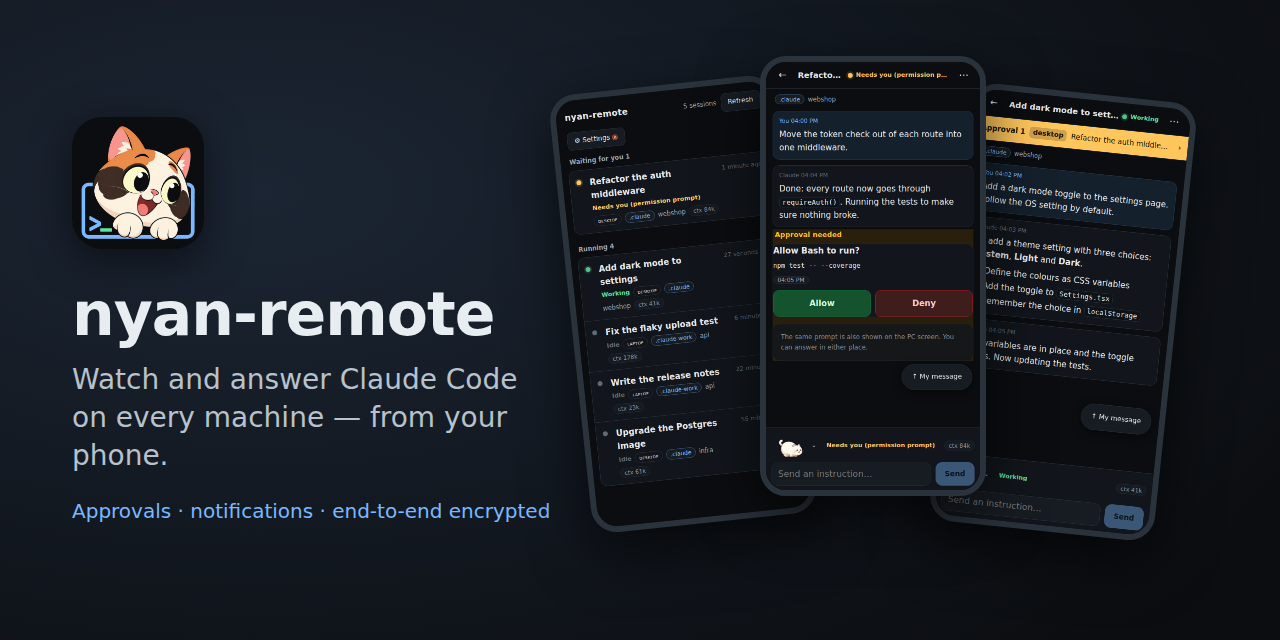
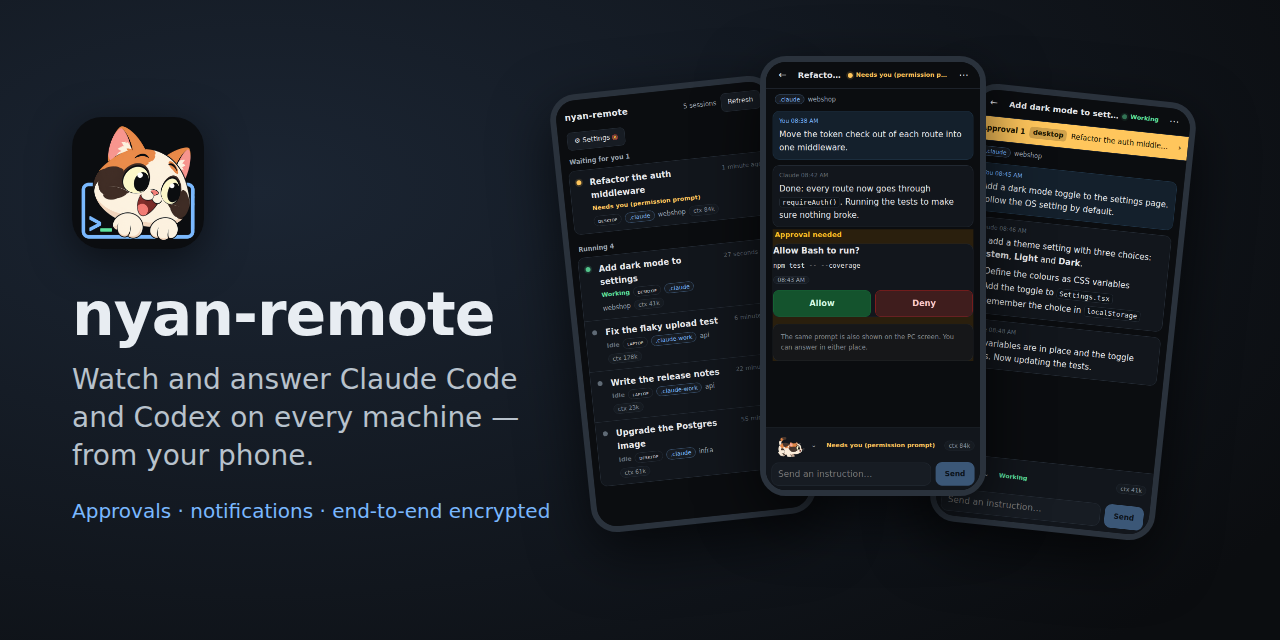
Release 2026-11-15 (2e424fe)

diff --git a/landing/public/index.html b/landing/public/index.html
@@ -1,16 +1,16 @@
 <!doctype html>
 <html lang="en"><head><meta charset="utf-8"><meta name="viewport" content="width=device-width,initial-scale=1">
-<title>nyan-remote — Claude Code on your phone</title>
-<meta name="description" content="Your Claude Code sessions on every machine and every account, on your phone — keep starting claude as usual.">
+<title>nyan-remote — Claude Code and Codex on your phone</title>
+<meta name="description" content="Your Claude Code and Codex sessions on every machine and every account, on your phone — keep starting claude and codex as usual.">
 <meta property="og:type" content="website">
 <meta property="og:site_name" content="nyan-remote">
 <meta property="og:url" content="https://nyan-remote.app/">
-<meta property="og:title" content="nyan-remote — Claude Code on your phone">
-<meta property="og:description" content="Your Claude Code sessions on every machine and every account, on your phone — keep starting claude as usual.">
+<meta property="og:title" content="nyan-remote — Claude Code and Codex on your phone">
+<meta property="og:description" content="Your Claude Code and Codex sessions on every machine and every account, on your phone — keep starting claude and codex as usual.">
 <meta property="og:image" content="https://nyan-remote.app/og.png">
 <meta property="og:image:width" content="1280">
 <meta property="og:image:height" content="640">
-<meta property="og:image:alt" content="nyan-remote — Claude Code sessions on your phone">
+<meta property="og:image:alt" content="nyan-remote — Claude Code and Codex sessions on your phone">
 <meta property="og:locale" content="en_US">
 <meta name="twitter:card" content="summary_large_image">
 <link rel="icon" href="/favicon.png"><link rel="stylesheet" href="/style.css">
@@ -18,8 +18,8 @@
 <header class="top"><a href="/"><img src="/icon.png" alt=""></a><a class="grow" href="/"><strong>nyan-remote</strong></a><a class="navlink" href="https://github.com/vessel-ltd/nyan-remote">GitHub</a><a class="btn ghost" href="https://account.nyan-remote.app">Account</a></header>
 <main><section class="hero">
 <div class="text">
-<h1>Keep running claude.<br>Use it from your phone.</h1>
-<p class="lead">The sessions you already started, from every account and every machine, in one place.</p>
+<h1>Keep running claude and codex.<br>Use them from your phone.</h1>
+<p class="lead">The Claude Code and Codex sessions you already started, from every account and every machine, in one place.</p>
 <p class="chips"><span>No tmux</span><span>No SSH</span><span>No relaunching</span></p>
 <p><a class="btn" href="#install">Get started</a> <a class="btn ghost" href="#pricing">Pricing</a></p>
 <p class="small dim">Free to start · <a href="https://github.com/vessel-ltd/nyan-remote">Open source (MIT)</a> · End-to-end encrypted</p>
@@ -30,7 +30,7 @@
 <h2>How it works</h2>
 <ol class="steps">
 <li><strong>Install on your PC</strong><span>One command. WSL, macOS or Linux.</span></li>
-<li><strong>Use <code>claude</code> as usual</strong><span>Same command, same accounts, nothing to relaunch.</span></li>
+<li><strong>Use <code>claude</code> and <code>codex</code> as usual</strong><span>Same command, same accounts, nothing to relaunch.</span></li>
 <li><strong>Open your phone</strong><span>Open a link and add it to your home screen, no app store. The sessions you start are all there, ready for you to answer and reply.</span></li>
 </ol>
 
@@ -50,11 +50,21 @@
 <li><strong>Approvals and questions</strong> Allow, deny, or pick an answer right there.</li>
 <li><strong>Reply and stop</strong> Type into a running session, or stop it.</li>
 <li><strong>Auto-approve, on your terms</strong> One session, for 3 or 24 hours. Always visible, one tap to turn off.</li>
+<li><strong>Codex <span class="badge">Experimental</span></strong> Codex sessions in the same list: state, conversation, notifications, command approvals, sending and stopping. <a href="#codex">What it changes on your PC</a>.</li>
 <li><strong>No app store</strong> A web app you add to your home screen.</li>
 <li><strong>A cat</strong> Pick one of seven. It runs while Claude is working.</li>
 </ul>
 </div>
 </div>
+
+<h2 id="codex">Codex <span class="badge">Experimental</span></h2>
+<p>OpenAI Codex CLI sessions show up in the same list. This is <strong>on by default</strong> on every PC where Codex runs (nothing happens on a PC without Codex). Here is what it changes on your PC:</p>
+<ol>
+<li><strong>Your Codex requests carry the name <code>nyan-remote</code>.</strong> The agent connects to the Codex background server (its daemon) and says who it is; Codex puts that name at the end of the User-Agent it sends to OpenAI, on your own account.</li>
+<li><strong>If the agent connects first, some Codex features can be lost until the daemon restarts.</strong> When a daemon has just started and the agent talks to it before your <code>codex</code> does, the MCP dependencies that skills rely on are not handled. The agent waits a few seconds first, which makes this unlikely but cannot rule it out.</li>
+<li><strong>Codex calls its daemon experimental.</strong> Built and measured against codex-cli 0.169.0 on Linux; a Codex update can break this until we catch up.</li>
+</ol>
+<p>To turn it off, put <code>"codex": { "enabled": false }</code> in <code>~/.nyan-remote/config.json</code> and restart the agent. <code>nyan status</code> shows whether it is on. Details are in the <a href="https://github.com/vessel-ltd/nyan-remote#codex-sessions-experimental">README</a>.</p>
 
 <h2 id="install">Get started</h2>
 <p>On your PC (WSL / macOS / Linux, Node 24):</p>
@@ -73,16 +83,15 @@
 <p class="dim">Prices are in US dollars and include tax. Cancel anytime; you will not be charged from the next renewal.</p>
 <h2 id="soon">Roadmap</h2>
 <ul class="roadmap">
-<li><strong>Codex</strong> OpenAI Codex sessions in the same view.</li>
+<li><strong>Codex, more of it</strong> Closed Codex sessions as history, and the other kinds of Codex approval (file changes, network access, questions).</li>
 <li><strong>Phone apps</strong> Native apps for iPhone and Android.</li>
 <li><strong>Desktop</strong> A desktop layout, installable on Windows, macOS and Linux.</li>
 <li><strong>Windows without WSL</strong> Run the agent on Windows directly.</li>
 <li><strong>Homebrew</strong> Install and update with Homebrew on macOS.</li>
 <li><strong>Voice</strong> Talk to a session and hear its replies read aloud, hands-free.</li>
 <li><strong>Images and files</strong> Send images and files from your phone to a session: screenshots, photos, logs.</li>
-<li><strong>Images and files</strong> Send images and files from your phone to a session: screenshots, photos, logs.</li>
 </ul>
-<p class="dim">nyan-remote is not an official Anthropic product. Claude and Claude Code are trademarks of Anthropic.</p></main>
+<p class="dim">nyan-remote is not an official product of Anthropic or OpenAI. Claude and Claude Code are trademarks of Anthropic. OpenAI and Codex are trademarks of OpenAI.</p></main>
 <footer>
 <a href="/legal/terms/">Terms</a> ·
 <a href="/legal/privacy/">Privacy</a> ·

diff --git a/landing/public/legal/privacy/index.html b/landing/public/legal/privacy/index.html
@@ -1,16 +1,16 @@
 <!doctype html>
 <html lang="en"><head><meta charset="utf-8"><meta name="viewport" content="width=device-width,initial-scale=1">
 <title>Privacy Policy — nyan-remote</title>
-<meta name="description" content="Your Claude Code sessions on every machine and every account, on your phone — keep starting claude as usual.">
+<meta name="description" content="Your Claude Code and Codex sessions on every machine and every account, on your phone — keep starting claude and codex as usual.">
 <meta property="og:type" content="website">
 <meta property="og:site_name" content="nyan-remote">
 <meta property="og:url" content="https://nyan-remote.app/legal/privacy/">
 <meta property="og:title" content="Privacy Policy — nyan-remote">
-<meta property="og:description" content="Your Claude Code sessions on every machine and every account, on your phone — keep starting claude as usual.">
+<meta property="og:description" content="Your Claude Code and Codex sessions on every machine and every account, on your phone — keep starting claude and codex as usual.">
 <meta property="og:image" content="https://nyan-remote.app/og.png">
 <meta property="og:image:width" content="1280">
 <meta property="og:image:height" content="640">
-<meta property="og:image:alt" content="nyan-remote — Claude Code sessions on your phone">
+<meta property="og:image:alt" content="nyan-remote — Claude Code and Codex sessions on your phone">
 <meta property="og:locale" content="en_US">
 <meta name="twitter:card" content="summary_large_image">
 <link rel="icon" href="/favicon.png"><link rel="stylesheet" href="/style.css">
@@ -18,13 +18,13 @@
 <header class="top"><a href="/"><img src="/icon.png" alt=""></a><a class="grow" href="/"><strong>nyan-remote</strong></a><a class="navlink" href="https://github.com/vessel-ltd/nyan-remote">GitHub</a><a class="btn ghost" href="https://account.nyan-remote.app">Account</a></header>
 <main><h1>Privacy Policy</h1>
 <p>This policy explains how Vessel Ltd. ("we") handles information in the nyan-remote hosted services.</p>
-<h2>1. What we do not handle</h2><p>Your Claude Code conversations, prompts, code and file contents are end-to-end encrypted between your phone and PC. They pass through our relay but we cannot read them, and we do not store them.</p>
+<h2>1. What we do not handle</h2><p>Your Claude Code and Codex conversations, prompts, code and file contents are end-to-end encrypted between your phone and PC. They pass through our relay but we cannot read them, and we do not store them.</p><p>The agent on your PC connects to the Codex background server on that PC. Nothing from that connection reaches us. (That your Codex requests to OpenAI carry the name <code>nyan-remote</code> is explained on the <a href="/#codex">home page</a>.)</p>
 <h2>2. Information we handle</h2>
 <ul><li>Your GitHub account id and username (for sign-in). GitHub tokens are used once for verification and not stored. We do not receive your password</li><li>Names, public keys and last-used times of your registered machines (to manage limits). Machine credentials are stored only as hashes</li><li>Your Stripe customer id and subscription status (for billing). Card details are handled by Stripe; we do not receive them. Payment notifications from Stripe may include details you entered at checkout, such as your email address; we do not store them</li><li>Relay connection metadata (times, traffic volume, IP addresses and similar; for troubleshooting and abuse prevention; kept briefly in Cloudflare logs)</li></ul>
 <h2>3. Third parties</h2><p>The Service uses Cloudflare (infrastructure), Stripe (payments) and GitHub (sign-in). Except as required by law, we do not share your information with other third parties. We use no third-party advertising or analytics scripts.</p>
 <h2>4. Deletion</h2><p>Removing a machine with <code>nyan logout</code> or on the account page deletes its information (including the credential hash). Machines unused for 90 days are also deleted automatically. The relay’s machine count forgets a machine when you remove it or after 30 days unused. To delete your whole account, please contact us.</p>
 <h2>5. Contact</h2><p>Vessel Ltd. — use the contact form on your <a href="https://account.nyan-remote.app/#support">account page</a>.</p>
-<p class="dim">Last updated: 2026-09-25</p></main>
+<p class="dim">Last updated: 2026-11-15</p></main>
 <footer>
 <a href="/legal/terms/">Terms</a> ·
 <a href="/legal/privacy/">Privacy</a> ·

diff --git a/landing/public/ja/legal/law/index.html b/landing/public/ja/legal/law/index.html
@@ -1,16 +1,16 @@
 <!doctype html>
 <html lang="ja"><head><meta charset="utf-8"><meta name="viewport" content="width=device-width,initial-scale=1">
 <title>特定商取引法に基づく表記 — nyan-remote</title>
-<meta name="description" content="いつもの claude のまま、全部のマシンと全部のアカウントの Claude Code を、ねこと一緒にスマホで。">
+<meta name="description" content="いつもの claude と codex のまま、全部のマシンと全部のアカウントのセッションを、ねこと一緒にスマホで。">
 <meta property="og:type" content="website">
 <meta property="og:site_name" content="nyan-remote">
 <meta property="og:url" content="https://nyan-remote.app/ja/legal/law/">
 <meta property="og:title" content="特定商取引法に基づく表記 — nyan-remote">
-<meta property="og:description" content="いつもの claude のまま、全部のマシンと全部のアカウントの Claude Code を、ねこと一緒にスマホで。">
+<meta property="og:description" content="いつもの claude と codex のまま、全部のマシンと全部のアカウントのセッションを、ねこと一緒にスマホで。">
 <meta property="og:image" content="https://nyan-remote.app/og.png">
 <meta property="og:image:width" content="1280">
 <meta property="og:image:height" content="640">
-<meta property="og:image:alt" content="nyan-remote — Claude Code sessions on your phone">
+<meta property="og:image:alt" content="nyan-remote — Claude Code and Codex sessions on your phone">
 <meta property="og:locale" content="ja_JP">
 <meta name="twitter:card" content="summary_large_image">
 <link rel="icon" href="/favicon.png"><link rel="stylesheet" href="/style.css">

diff --git a/landing/public/legal/law/index.html b/landing/public/legal/law/index.html
@@ -1,16 +1,16 @@
 <!doctype html>
 <html lang="en"><head><meta charset="utf-8"><meta name="viewport" content="width=device-width,initial-scale=1">
 <title>Legal notice (Specified Commercial Transactions Act) — nyan-remote</title>
-<meta name="description" content="Your Claude Code sessions on every machine and every account, on your phone — keep starting claude as usual.">
+<meta name="description" content="Your Claude Code and Codex sessions on every machine and every account, on your phone — keep starting claude and codex as usual.">
 <meta property="og:type" content="website">
 <meta property="og:site_name" content="nyan-remote">
 <meta property="og:url" content="https://nyan-remote.app/legal/law/">
 <meta property="og:title" content="Legal notice (Specified Commercial Transactions Act) — nyan-remote">
-<meta property="og:description" content="Your Claude Code sessions on every machine and every account, on your phone — keep starting claude as usual.">
+<meta property="og:description" content="Your Claude Code and Codex sessions on every machine and every account, on your phone — keep starting claude and codex as usual.">
 <meta property="og:image" content="https://nyan-remote.app/og.png">
 <meta property="og:image:width" content="1280">
 <meta property="og:image:height" content="640">
-<meta property="og:image:alt" content="nyan-remote — Claude Code sessions on your phone">
+<meta property="og:image:alt" content="nyan-remote — Claude Code and Codex sessions on your phone">
 <meta property="og:locale" content="en_US">
 <meta name="twitter:card" content="summary_large_image">
 <link rel="icon" href="/favicon.png"><link rel="stylesheet" href="/style.css">

diff --git a/landing/public/legal/terms/index.html b/landing/public/legal/terms/index.html
@@ -1,16 +1,16 @@
 <!doctype html>
 <html lang="en"><head><meta charset="utf-8"><meta name="viewport" content="width=device-width,initial-scale=1">
 <title>Terms of Service — nyan-remote</title>
-<meta name="description" content="Your Claude Code sessions on every machine and every account, on your phone — keep starting claude as usual.">
+<meta name="description" content="Your Claude Code and Codex sessions on every machine and every account, on your phone — keep starting claude and codex as usual.">
 <meta property="og:type" content="website">
 <meta property="og:site_name" content="nyan-remote">
 <meta property="og:url" content="https://nyan-remote.app/legal/terms/">
 <meta property="og:title" content="Terms of Service — nyan-remote">
-<meta property="og:description" content="Your Claude Code sessions on every machine and every account, on your phone — keep starting claude as usual.">
+<meta property="og:description" content="Your Claude Code and Codex sessions on every machine and every account, on your phone — keep starting claude and codex as usual.">
 <meta property="og:image" content="https://nyan-remote.app/og.png">
 <meta property="og:image:width" content="1280">
 <meta property="og:image:height" content="640">
-<meta property="og:image:alt" content="nyan-remote — Claude Code sessions on your phone">
+<meta property="og:image:alt" content="nyan-remote — Claude Code and Codex sessions on your phone">
 <meta property="og:locale" content="en_US">
 <meta name="twitter:card" content="summary_large_image">
 <link rel="icon" href="/favicon.png"><link rel="stylesheet" href="/style.css">

diff --git a/landing/public/style.css b/landing/public/style.css
@@ -78,3 +78,6 @@ footer a{color:inherit}
 /* ★ Roadmap: a short list, deliberately lighter than the features */
 .roadmap{padding-left:1.2em;color:var(--dim)}
 .roadmap strong{color:var(--fg)}
+/* ★ "Experimental" next to a feature name (Codex / 2026-11-15) */
+.badge{display:inline-block;vertical-align:middle;margin-left:6px;padding:1px 9px;border-radius:999px;border:1px solid var(--line);background:var(--chip);color:var(--dim);font-size:.75rem;font-weight:600;letter-spacing:.02em}
+h2 .badge{font-size:.8rem}

diff --git a/README.md b/README.md
@@ -1,6 +1,6 @@
 # nyan-remote
 
-**Keep running `claude`. Use it from your phone.**
+**Keep running `claude` and `codex`. Use them from your phone.**
 
 <p align="center">
   <a href="https://www.youtube.com/watch?v=Qup2GjWCeoo"><img src=".github/readme/teaser.gif" width="560" alt="A session stuck on a permission prompt; approving it from the phone; every account and machine in one list"></a>
@@ -8,8 +8,8 @@
   <a href="https://www.youtube.com/watch?v=Qup2GjWCeoo">▶ Watch the full video (1 min)</a>
 </p>
 
-The sessions you already started — on every machine, in every account — in one list on your
-phone. No tmux, no SSH, no relaunching under another command. `nyan-remote` runs one small agent
+The Claude Code and Codex sessions you already started — on every machine, in every account — in one
+list on your phone. No tmux, no SSH, no relaunching under another command. `nyan-remote` runs one small agent
 on each PC and gives you a phone web app with push notifications when a session finishes, fails,
 or needs your approval, and lets you answer, reply, or stop it from there.
 
@@ -34,6 +34,9 @@ nyan-remote makes those moments reach your phone, and lets you answer:
 - **Approve or deny** permission prompts from your phone — including ones that would otherwise
   be auto-denied for background agents.
 - **Reply, stop, or run a slash command** in a running session.
+- **Codex too** (experimental): your OpenAI Codex CLI sessions in the same list — state, notifications, command
+  approvals, sending and stopping. On by default where Codex runs; read
+  [what it changes on your PC](#codex-sessions-experimental) and how to turn it off.
 
 ---
 
@@ -60,12 +63,12 @@ nyan-remote is for the cases they leave out:
 | Notified when a turn ends | when Claude decides | ✓ | every turn end and failure |
 | Auto-approve for a few hours | Claude Code's auto mode (Claude judges each call) | not documented | ✓ (3 h or 24 h, from the phone) |
 | Send images and files | ✓ | not documented | not yet ([roadmap](#roadmap)) |
-| Agents other than Claude Code | — | 13 agents | Claude Code only |
+| Agents other than Claude Code | — | 13 agents | Codex (experimental) |
 | Phone app | Claude app | iOS / Android apps | web app (add to Home Screen) |
 | Self-host the relay | — | ✓ | ✓ (your Cloudflare account, or Tailscale) |
 | Price | included in your plan | free | nyan-remote relay: free for 1 machine, Plus $2.99/month or $24/year; Tailscale or your own relay: free |
 
-<sub>From their public docs as of 2026-09-29. "Not documented" means we could not find it in their docs, not that it is
+<sub>From their public docs as of 2026-09-29 (our column as of 2026-11-15). "Not documented" means we could not find it in their docs, not that it is
 missing. If something here is wrong or out of date, please [open an issue](https://github.com/vessel-ltd/nyan-remote/issues).</sub>
 
 ---
@@ -343,13 +346,12 @@ How it works:
 
 ## Roadmap
 
-- **Codex** — OpenAI Codex sessions in the same view. Viewing, command approvals, sending and stopping are in (on by default, see [Codex sessions](#codex-sessions-experimental)); the other kinds of approval and closed sessions as history come next.
+- **Codex, more of it** — closed Codex sessions as history, and the other kinds of Codex approval (file changes, network access, questions).
 - **Phone apps** — native apps for iPhone and Android.
 - **Desktop** — a desktop layout, installable on Windows, macOS and Linux.
 - **Windows without WSL** — run the agent on Windows directly.
 - **Homebrew** — install and update with Homebrew on macOS.
 - **Voice** — talk to a session and hear its replies read aloud, hands-free.
-- **Images and files** — send images and files from your phone to a session: screenshots, photos, logs.
 - **Images and files** — send images and files from your phone to a session: screenshots, photos, logs.
 
 ---
@@ -380,7 +382,8 @@ why it exists.
 
 MIT © Vessel Ltd. (Vessel合同会社). See [LICENSE](LICENSE).
 
-nyan-remote is not an official Anthropic product. Claude and Claude Code are trademarks of Anthropic.
+nyan-remote is not an official product of Anthropic or OpenAI. Claude and Claude Code are trademarks of Anthropic.
+OpenAI and Codex are trademarks of OpenAI.
 
 The cat sprites in `web/public/cats/` and `web/public/manul-cat.svg` are original artwork made for
 this project and are covered by the same license.
